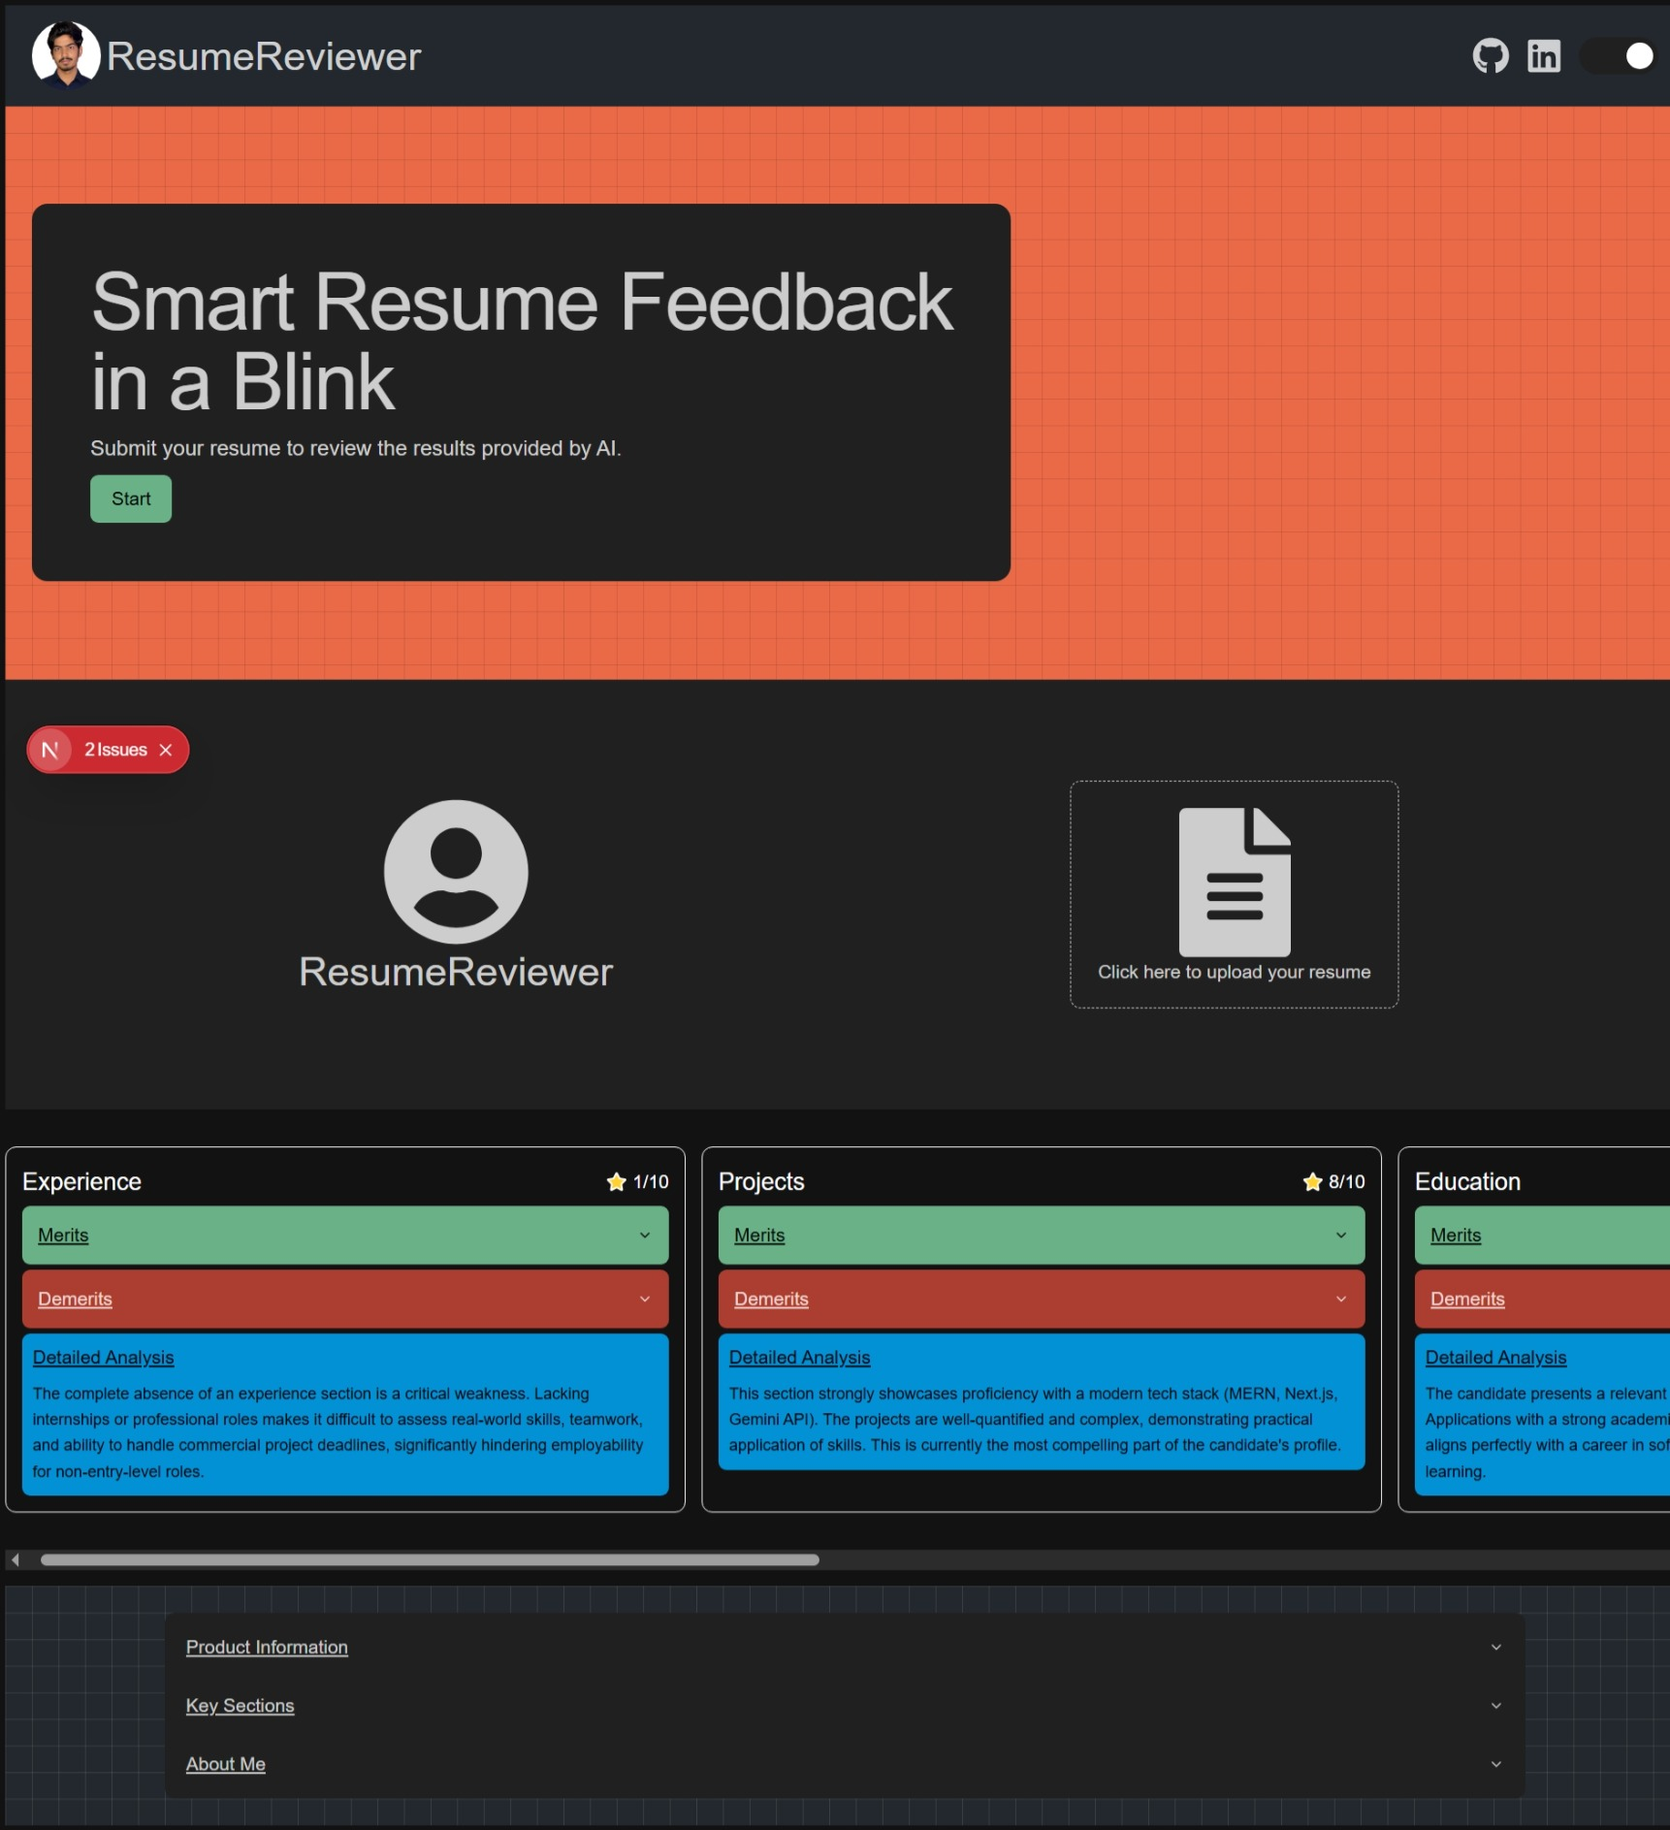
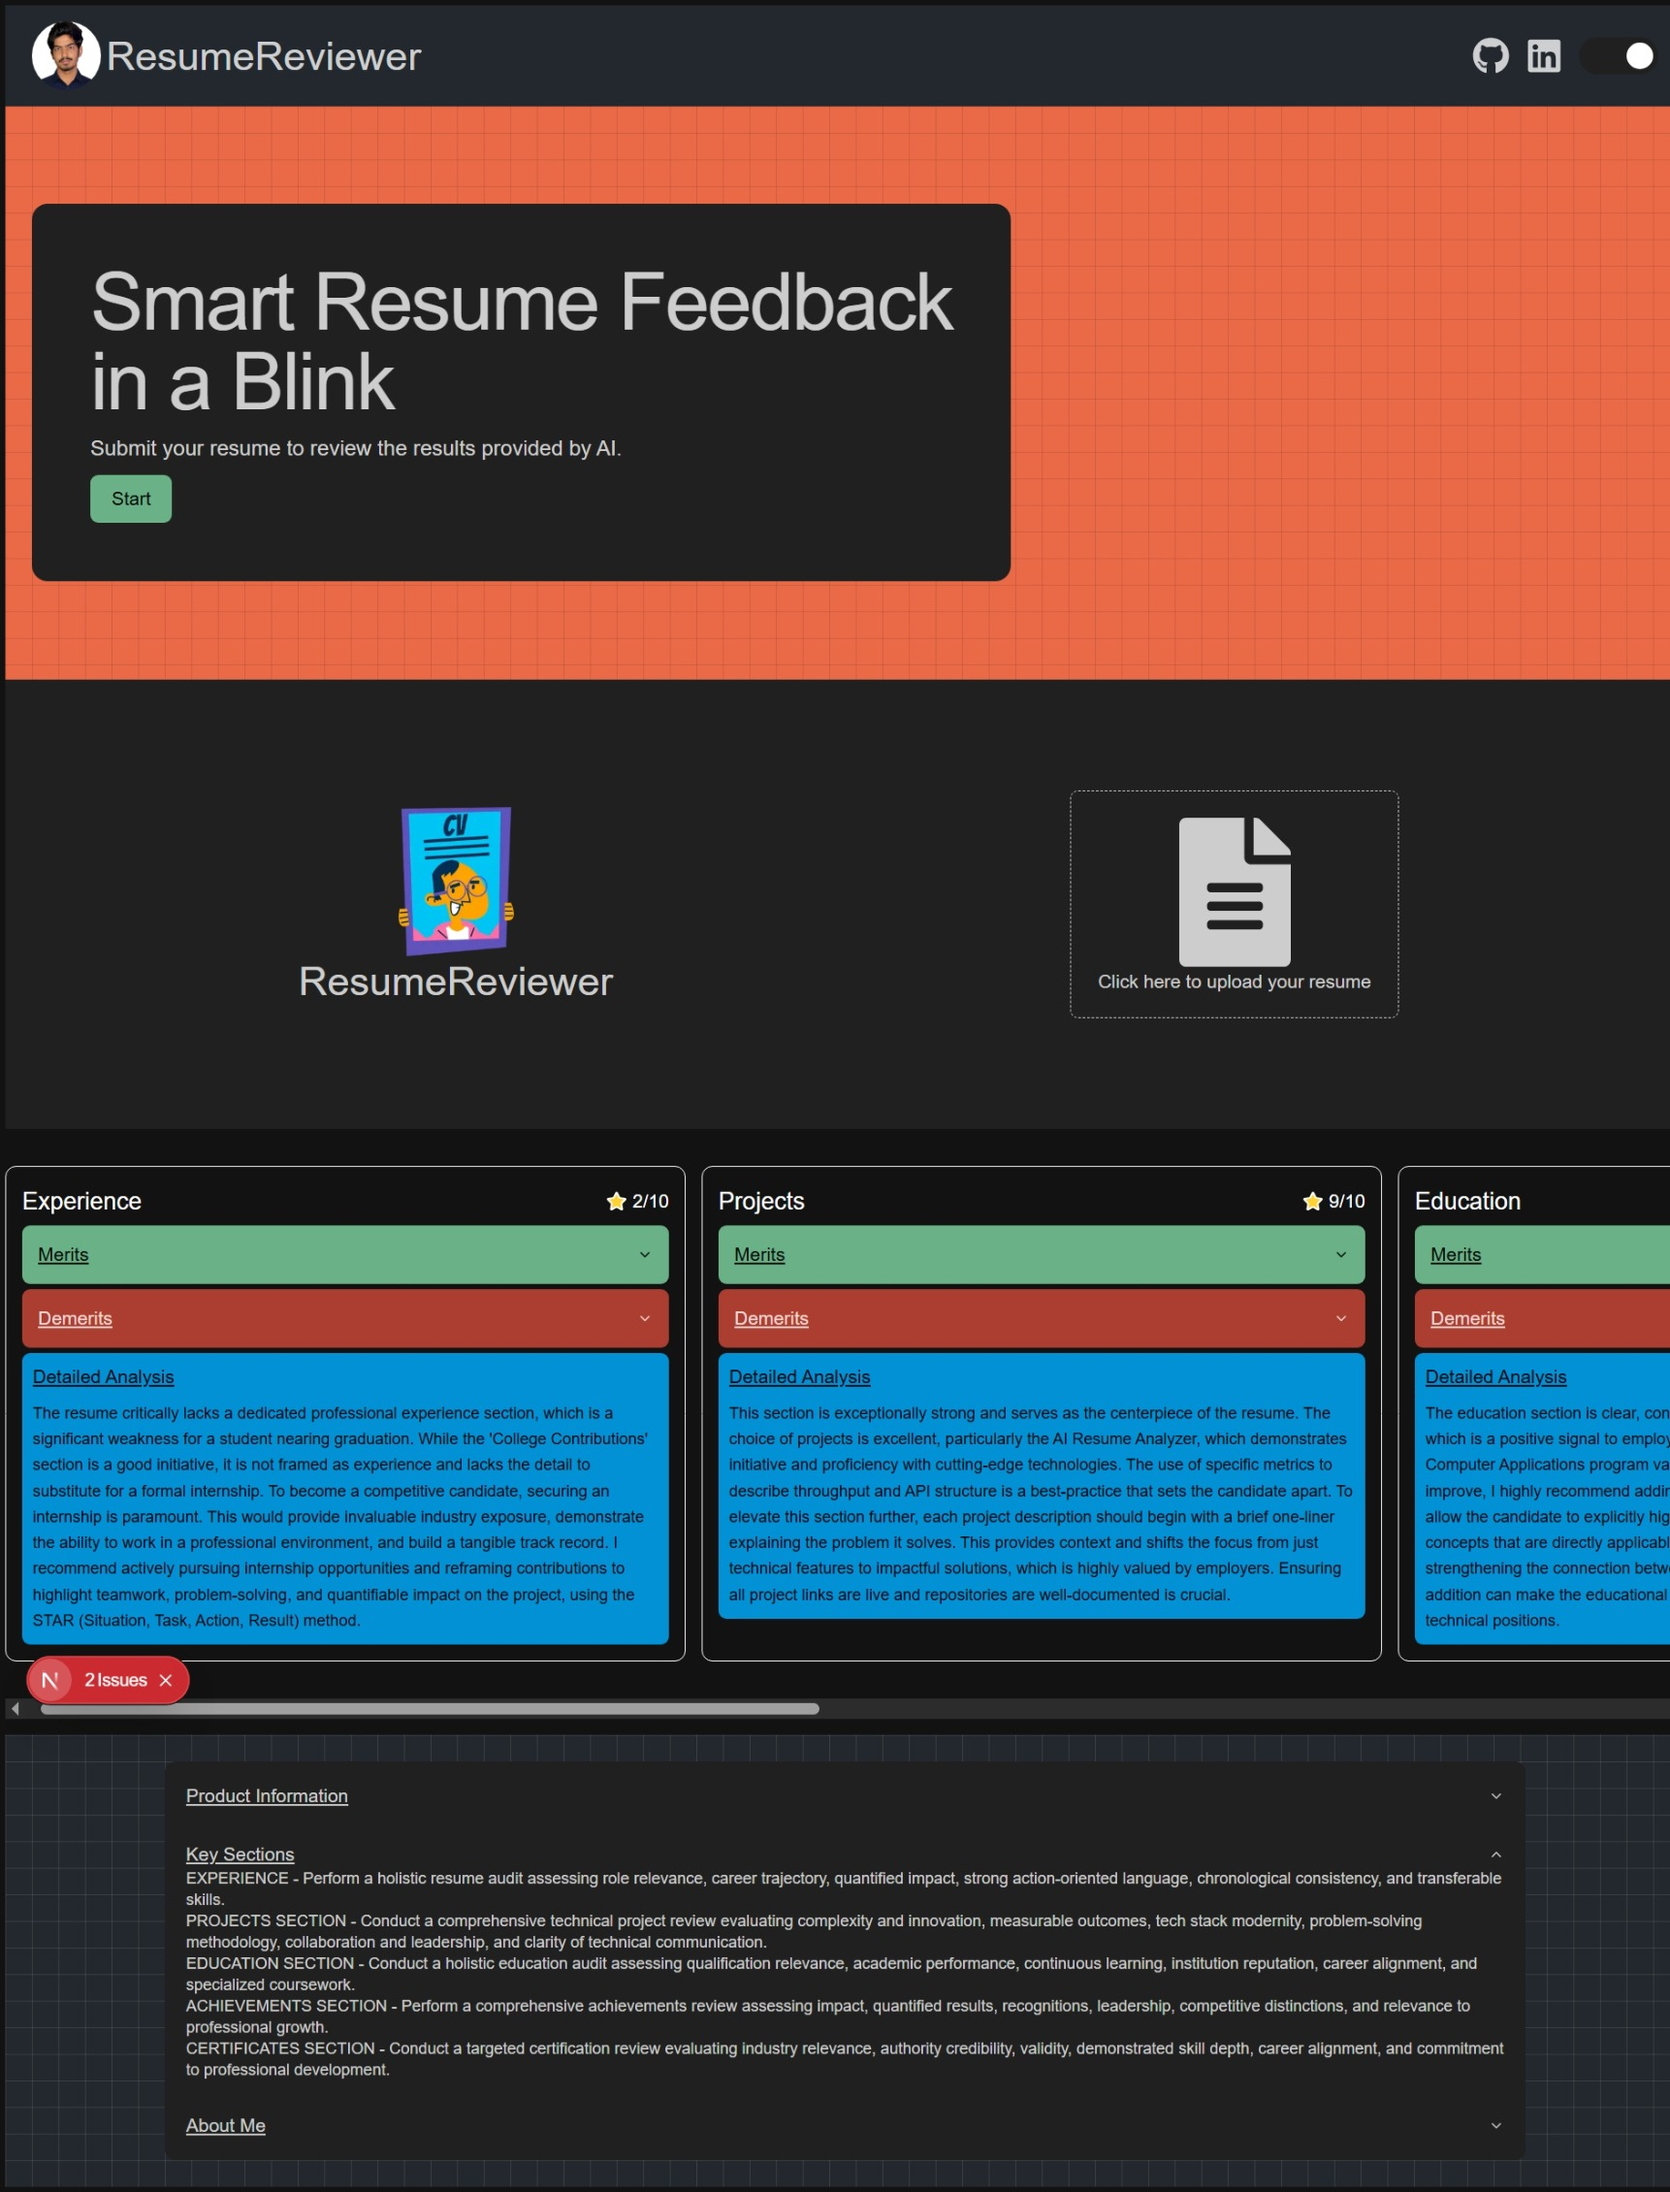
UploadFile component ui enhanced

diff --git a/src/components/customs/sections/UploadFile.tsx b/src/components/customs/sections/UploadFile.tsx
@@ -1,6 +1,7 @@
 "use client";
 import React from "react";
 import { FaUserCircle } from "react-icons/fa";
+import Image from "next/image";
 import File from "./File";
 import Progress from "@/components/customs/Progress";
 import { useSelector } from "react-redux";
@@ -13,8 +14,14 @@ export default function UploadFile() {
       <form>
         <div className="grid grid-cols-1 md:grid-cols-2 gap-1 p-5 sm:p-6 md:p-7">
           <div className="flex flex-col justify-center items-center gap-1 p-3 sm:p-5 md:p-7">
-            <div className="flex flex-col justify-center items-center gap-1 border rounded-md p-3 sm:p-4 md:p-5">
-              <FaUserCircle className="w-[5rem] sm:w-[6rem] md:w-[7rem] h-auto" />
+            <div className="flex flex-col justify-center items-center gap-1 rounded-md p-3 sm:p-4 md:p-5">
+              <Image
+                src="/cv.png"
+                alt="CV image"
+                width={100}
+                height={100}
+                className="w-[5rem] sm:w-[6rem] md:w-[7rem] h-auto"
+              />
               <h3 className="text-xl sm:text-2xl md:text-3xl font-bold text-center leading-none">ResumeReviewer</h3>
               {loading && <Progress />}
             </div>

diff --git a/src/components/customs/sections/File.tsx b/src/components/customs/sections/File.tsx
@@ -94,7 +94,7 @@ export default function File() {
     >
       <input className="hidden" type="file" id="file-upload" accept="application/pdf" onChange={handleFileChange} />
       <label
-        className="flex flex-col items-center gap-1 border rounded-md p-3 sm:p-4 md:p-5 cursor-pointer"
+        className="flex flex-col items-center gap-1 border border-dashed rounded-md p-3 sm:p-4 md:p-5 cursor-pointer"
         htmlFor="file-upload"
       >
         <FaFileAlt className="w-[5rem] sm:w-[6rem] md:w-[7rem] h-auto" />
